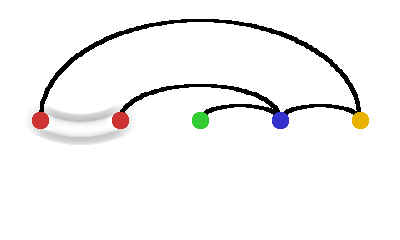
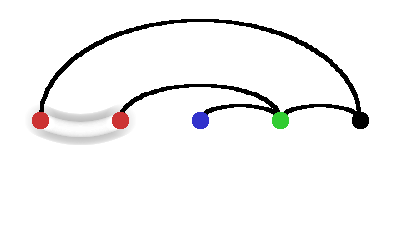
new diagrams

Changed region(s): [[0.87, 0.4667, 0.93, 0.5542], [0.66, 0.4667, 0.72, 0.5542], [0.48, 0.4667, 0.54, 0.5542]]

diff --git a/diagrams/diagram_partial.py b/diagrams/diagram_partial.py
@@ -61,6 +61,7 @@ green = (0.2, 0.8, 0.2)
 blue  = (0.2, 0.2, 0.8)
 gold  = (0.9, 0.7, 0.0)
 colors = [red, green, blue, gold, black, black]
+#colors = [red, blue, green, black, green, blue, gold, black, black]
 
 RADIN = 8 
 RADOUT = 12
@@ -153,7 +154,18 @@ for outline in [False, True]:
         #([[0],[1,2,3]], [[0,2],[1,2],[2,3]]),
         #([[0]], [[0]]),
         #([[0,1]], [[0,1],[1]]),
-        ([[0,1], [2], [3], [4]], [[0,4],[1,3],[2,3],[3,4]]),
+        #([[0,1], [2], [3], [4]], [[0,4],[1,3],[2,3],[3,4]]),
+        #
+        #([[0], [1], [2]], [[0,2],[1,2]]),
+        #([[0], [1], [2]], [[0,1],[0,2]]),
+        #([[0], [1], [2]], [[0,1],[0,2],[1,2]]),
+        #([[0], [1], [2]], [[0,2]]),
+        #([[0,2],[0,1,2],[3]], [[0,2],[1,2],[2,3]]),
+        #([[0,3],[1,2],[4]], [[0,3],[1,3],[2,3],[3,4]]),
+        #
+        ([[0],[1],[2],[3],[4]],[[0,1],[1,2],[2,3],[3,4]]),
+        ([[0,2],[1],[3],[4]],[[0,1],[1,4],[2,3],[3,4]]),
+        ([[0,3],[1],[2],[4]],[[0,1],[1,2],[2,4],[3,4]]),
     ):
         c_nm = ('c' if outline else '')
         p_nm = '({})'.format('-'.join(''.join(str(s) for s in p) for p in pp))
